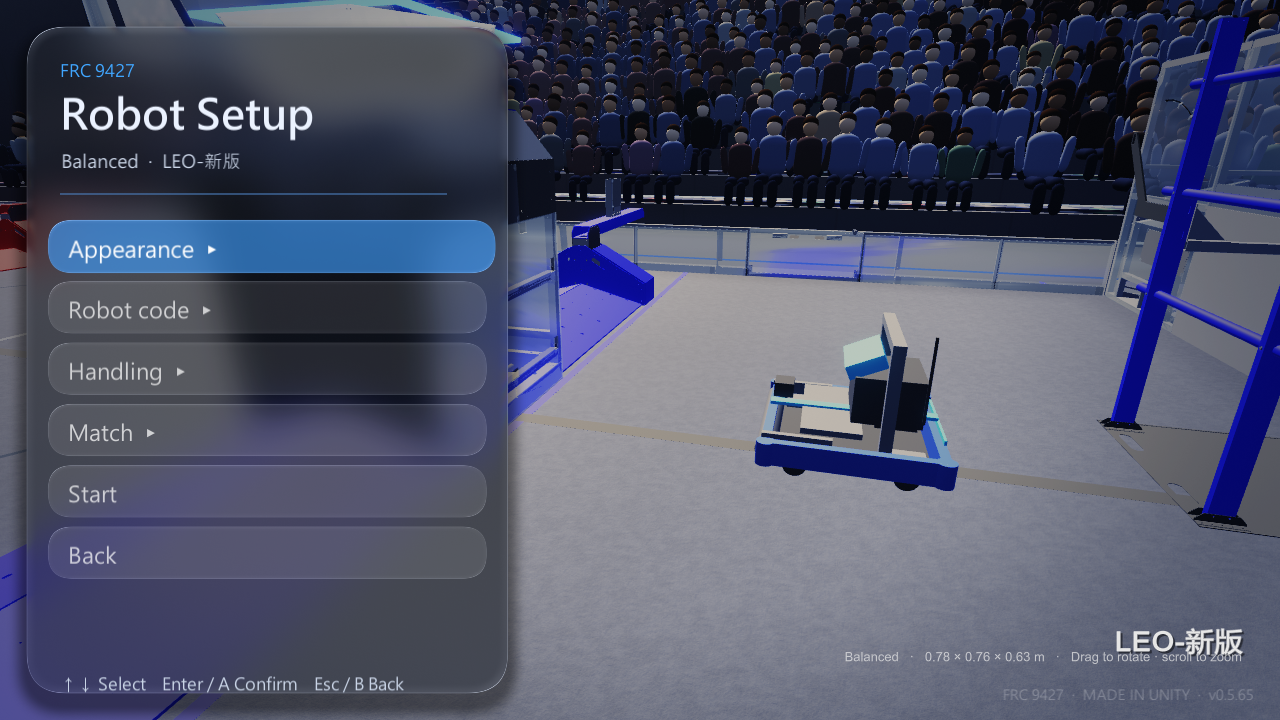
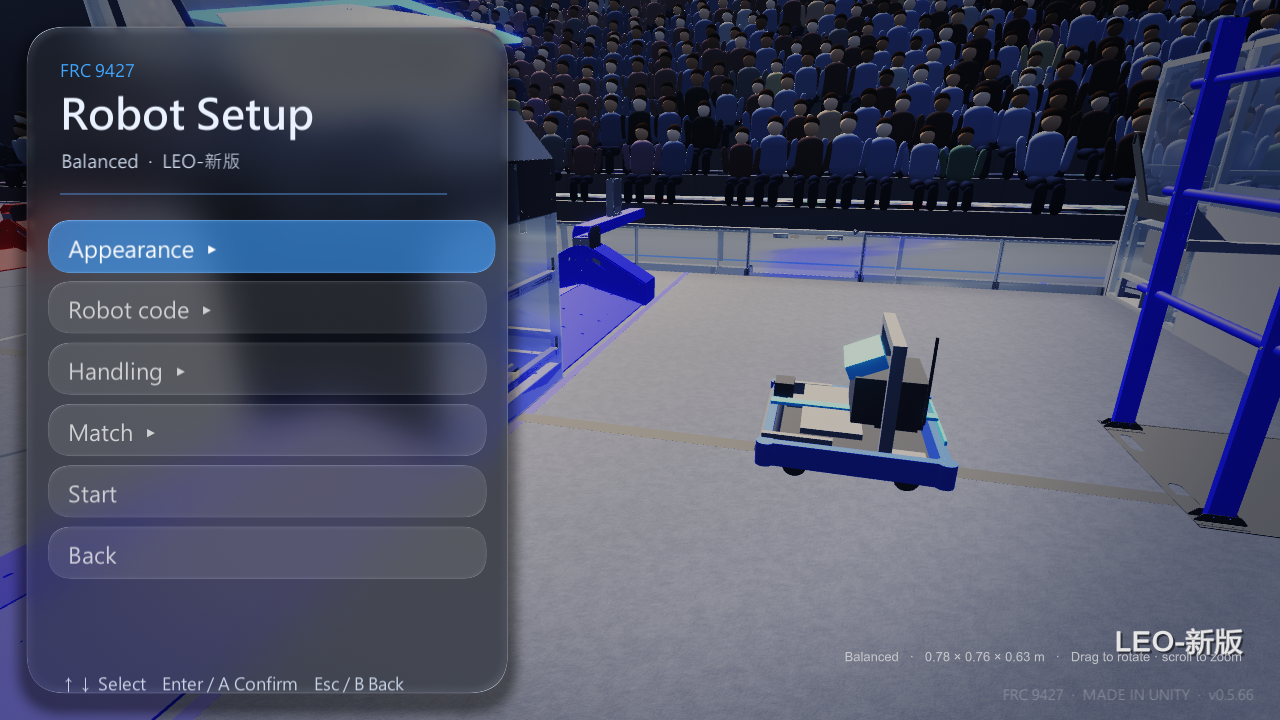
v0.5.66 HUD fuel bar

diff --git a/Assets/Scripts/Sim/SimHud.cs b/Assets/Scripts/Sim/SimHud.cs
@@ -247,12 +247,9 @@ namespace FrcSim
                 // 儲球圓點(40 顆 = 2 排 20 點)
                 int cap = RobotMechanisms.Capacity, held = Mech.Held;
                 GUI.Label(new Rect(cx0 + 18, cy0 + 62, 120, 20), L("儲球", "FUEL") + $"  {held}/{cap}", Style(13, dim, TextAnchor.UpperLeft, FontStyle.Bold));
-                float dx = cx0 + 18, dy2 = cy0 + 84; int perRow = 20; float dsz = 10f, gap = (cw0 - 36f - perRow * dsz) / (perRow - 1);
-                for (int i = 0; i < cap; i++)
-                {
-                    var dr = new Rect(dx + (i % perRow) * (dsz + gap), dy2 + (i / perRow) * 14f, dsz, dsz);
-                    Rounded(dr, i < held ? new Color(1f, 0.86f, 0.12f, 1f) : new Color(1f, 1f, 1f, 0.14f), dsz / 2f);
-                }
+                float dx = cx0 + 18, dy2 = cy0 + 90; float trackW = cw0 - 36f;
+                Rounded(new Rect(dx, dy2, trackW, 8f), new Color(1f, 1f, 1f, 0.14f), 4f);
+                if (held > 0) Rounded(new Rect(dx, dy2, Mathf.Max(8f, trackW * held / (float)cap), 8f), new Color(1f, 0.86f, 0.12f, 1f), 4f);   // 儲球:一條細進度條取代 40 個圓點(減少雜訊)
                 // 飛輪轉速條 + 數字
                 float fy = cy0 + 116f;
                 GUI.Label(new Rect(cx0 + 18, fy - 2, 120, 20), L("飛輪", "FLYWHEEL"), Style(13, dim, TextAnchor.UpperLeft, FontStyle.Bold));
@@ -398,7 +395,7 @@ namespace FrcSim
             if (GameSession.Hal != null && GameSession.Hal.Connected && ScoreManager.ClockOn && ScoreManager.MatchTime < 20f)
             {
                 Panel(new Rect(cx - 280, 90, 560, 30), 0.75f);
-                GUI.Label(new Rect(cx - 280, 93, 560, 26), L("自動階段:你的機器人程式自己跑,手把暫時無效 — 按 N 跳過", "AUTO: your robot code is driving, sticks disabled — press N to skip"), Style(15, new Color(1f, 0.9f, 0.4f), TextAnchor.UpperCenter, FontStyle.Bold));
+                GUI.Label(new Rect(cx - 280, 93, 560, 26), L("自動階段:你的機器人程式自己跑,手把暫時無效 — 按 N 跳過", "AUTO: your robot code is driving, sticks disabled — press N to skip"), Style(15, new Color(1f, 0.84f, 0.04f), TextAnchor.UpperCenter, FontStyle.Bold));
             }
 
             // ---- 真實程式載入中:整個遊戲凍結,顯示進度 %(載入完才開始計時、才能動)
@@ -452,6 +449,7 @@ namespace FrcSim
         }
     }
 }
+
 
 
 

diff --git a/Assets/Scripts/Sim/UpdateCheck.cs b/Assets/Scripts/Sim/UpdateCheck.cs
@@ -17,7 +17,7 @@ namespace FrcSim
     //   找不到差異包(或失敗)時退回「開啟下載頁」,讓使用者手動下載完整版。
     public class UpdateCheck : MonoBehaviour
     {
-        public const string Current = "0.5.65";
+        public const string Current = "0.5.66";
         const string Repo = "frc9427liu-tech/FRC9427-SimApp";
         const string ReleasesApi = "https://api.github.com/repos/" + Repo + "/releases?per_page=30";
         public const string Page = "https://github.com/" + Repo + "/releases/latest";
@@ -235,6 +235,7 @@ Start-Process -FilePath $Exe -WorkingDirectory $Dst
 ";
     }
 }
+
 
 
 
